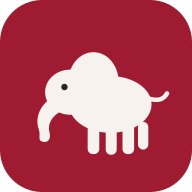
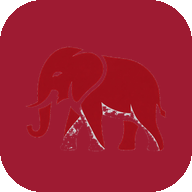
Wire Addison elephant PNGs into Crimson chrome
Use elephant-flat on the splash, elephant-white for the header and
1-face (no elephant emoji), and rebuild PWA icons from elephant-shaded
on a deep-crimson rounded square.

diff --git a/index.html b/index.html
@@ -271,7 +271,8 @@
     background:radial-gradient(900px 600px at 80% -10%, #c42b44 0%, transparent 55%),radial-gradient(700px 500px at 0% 110%, #2b2b2b 0%, transparent 55%),linear-gradient(160deg,var(--bg1),var(--bg2) 45%,var(--bg3));
   }
   html.skin-crimson .sp-title{background:linear-gradient(90deg,#fff,#f7d4d8 40%,#fff);-webkit-background-clip:text;background-clip:text}
-  html.skin-crimson .sp-ele{position:absolute;left:4vw;top:28vh;height:130vh;width:auto;
+  html.skin-crimson .sp-ele{position:absolute;left:2vw;top:22vh;height:70vh;width:auto;max-width:92vw;
+    object-fit:contain;
     filter:drop-shadow(0 0 60px rgba(255,255,255,.22));
     animation:spLob .7s ease-out both}
   html.skin-crimson .sp-lob{display:none}
@@ -281,6 +282,11 @@
   html.skin-crimson .btn{box-shadow:0 8px 20px rgba(158,27,50,.4)}
   html.skin-crimson .p.active{border-color:#fff;background:linear-gradient(90deg,rgba(255,255,255,.18),rgba(158,27,50,.12));box-shadow:0 0 0 1px rgba(255,255,255,.3)}
   html.skin-crimson .rc:active,html.skin-crimson .rc.on{background:linear-gradient(180deg,#fff,#f0e6e6);color:#6B1222;border-color:transparent}
+  html.skin-crimson .top .logo{width:36px;height:36px;padding:0;display:grid;place-items:center}
+  html.skin-crimson .top .logo img{width:36px;height:36px;object-fit:contain;display:block}
+  .ele-pip{width:1.2em;height:1.2em;vertical-align:-0.22em;object-fit:contain}
+  .nmcol .ele-pip{width:26px;height:26px;display:block;margin:0 auto}
+  .lobrow .ele-pip{width:18px;height:18px;margin:0 4px -3px 0}
 </style>
 </head>
 <body>
@@ -352,18 +358,7 @@
 <path style="fill:#A42615;" d="M33.3,39.78c0.92-0.05,3.8,0.42,3.73-1.55s-3.73-1.55-4.36-1.55c-0.63,0-2.75,0.35-2.75,1.76
 	S31.9,39.85,33.3,39.78z"/>
   </g></svg>
-  <svg class="sp-ele" viewBox="0 0 128 128" xmlns="http://www.w3.org/2000/svg"><g id="eleArt">
-    <ellipse cx="78" cy="62" rx="34" ry="24" fill="#d8d2cc"/>
-    <ellipse cx="42" cy="54" rx="20" ry="17" fill="#cfc8c2"/>
-    <ellipse cx="54" cy="48" rx="16" ry="20" fill="#b7b0aa"/>
-    <path d="M28 58c-12 8-16 22-12 32c2 6-2 10 5 11c5 1 6-4 5-8c-2-8 3-15 10-19c3-2 4-6 2-8c-2-3-6-6-10-8z" fill="#c4bdb6"/>
-    <rect x="58" y="78" width="9" height="26" rx="4" fill="#9e9892"/>
-    <rect x="70" y="80" width="8" height="24" rx="4" fill="#8f8984"/>
-    <rect x="82" y="78" width="9" height="26" rx="4" fill="#9e9892"/>
-    <rect x="94" y="76" width="8" height="24" rx="4" fill="#8f8984"/>
-    <path d="M108 54c8 2 12 0 15-6" fill="none" stroke="#c4bdb6" stroke-width="3.2" stroke-linecap="round"/>
-    <circle cx="36" cy="50" r="2.1" fill="#2a2422"/>
-  </g></svg>
+  <img class="sp-ele" id="eleArt" src="/crimson/elephant-flat.png" alt="">
   <div class="sp-title">Lobster<br>Dice</div>
   <div class="sp-dice sp-d1"><svg viewBox="0 0 64 64" xmlns="http://www.w3.org/2000/svg">
     <defs><linearGradient id="dieG" x1="0" y1="0" x2="1" y2="1"><stop offset="0" stop-color="#ffffff"/><stop offset="1" stop-color="#dde6f8"/></linearGradient></defs>
@@ -376,7 +371,7 @@
   </svg></div>
   <div class="sp-dice sp-d2 sp-d2-ele"><svg viewBox="0 0 64 64" xmlns="http://www.w3.org/2000/svg">
     <rect x="2" y="2" width="60" height="60" rx="14" fill="url(#dieG)"/>
-    <use href="#eleArt" transform="translate(8,10) scale(0.36)"/>
+    <image href="/crimson/elephant-flat.png" x="8" y="14" width="48" height="36" preserveAspectRatio="xMidYMid meet"/>
   </svg></div>
 </div>
 <div class="wrap">
@@ -435,7 +430,8 @@ function detectSkin(){
 const SKIN=detectSkin();
 window.SKIN=SKIN;
 window.parseKit=parseKit;
-function L(s){
+const ELE_WHITE='<img class="ele-pip" src="/crimson/elephant-white.png" alt="elephant">';
+function L(s, plain){
   if(s==null||SKIN.id!=='crimson') return s;
   return String(s)
     .replace(/Lobster Dice/g,'Crimson Dice')
@@ -450,8 +446,8 @@ function L(s){
     .replace(/A lobster/g,'An elephant')
     .replace(/lobster/g,'elephant')
     .replace(/Lobster/g,'Elephant')
-    .replace(/🦞🦞/g,'🐘🐘')
-    .replace(/🦞/g,'🐘');
+    .replace(/🦞🦞/g, plain ? '' : ELE_WHITE+ELE_WHITE)
+    .replace(/🦞/g, plain ? '' : ELE_WHITE);
 }
 function applySkinChrome(){
   if(SKIN.id!=='crimson') return;
@@ -462,7 +458,8 @@ function applySkinChrome(){
   const man=document.querySelector('link[rel="manifest"]'); if(man) man.setAttribute('href','/crimson/manifest.webmanifest');
   const icon=document.querySelector('link[rel="icon"]'); if(icon) icon.setAttribute('href','/crimson/icon-192.png');
   const apple=document.querySelector('link[rel="apple-touch-icon"]'); if(apple) apple.setAttribute('href','/crimson/icon-192.png');
-  const logo=document.querySelector('.top .logo'); if(logo) logo.textContent='🐘';
+  const logo=document.querySelector('.top .logo');
+  if(logo) logo.innerHTML='<img src="/crimson/elephant-white.png" alt="">';
   const h1=document.querySelector('.top h1'); if(h1) h1.textContent='Crimson Dice';
   const sp=document.querySelector('.sp-title'); if(sp) sp.innerHTML='Crimson<br>Dice';
 }
@@ -706,7 +703,7 @@ async function fetchWatch(){
   if(st&&st.phase==='playing') keepAwake(); else releaseAwake();   // watchers stay awake only while the game is live
   render();
 }
-function startWatch(){ foot.textContent=L('🦞 Claw Watch · '+WATCH); fetchWatch(); setInterval(fetchWatch,4000); }
+function startWatch(){ foot.textContent=L('🦞 Claw Watch · '+WATCH, true); fetchWatch(); setInterval(fetchWatch,4000); }
 function renderWatch(){
   const st=watchData&&watchData.state;
   const backBtn=`<button class="btn ghost sm" id="watchback" style="margin-top:4px">← Back to the app</button>`;
@@ -1309,7 +1306,7 @@ function renderModal(){
   const sa=document.getElementById('m_shareapp');
   if(sa) sa.onclick=async()=>{
     const url=location.origin+(SKIN.id==='crimson'?(SKIN.kit?'/crimson/'+SKIN.kit:'/crimson'):location.pathname);
-    const text=L('Lobster Dice 🦞🎲 — the scorepad + stakes tracker for our game. Open it, then tap Share → Add to Home Screen:');
+    const text=L('Lobster Dice 🦞🎲 — the scorepad + stakes tracker for our game. Open it, then tap Share → Add to Home Screen:', true);
     if(navigator.share){ try{ await navigator.share({title:L('Lobster Dice'),text,url}); }catch(e){} }
     else if(navigator.clipboard){ try{ await navigator.clipboard.writeText(url); alert('App link copied — text it to the table:\n'+url); }catch(e){ alert('App link:\n'+url); } }
     else alert('App link:\n'+url);

diff --git a/sw.js b/sw.js
@@ -1,5 +1,5 @@
 /* Lobster Dice / Crimson Dice service worker — offline app shell (cache-first) */
-const CACHE = 'lobster-dice-v9';
+const CACHE = 'lobster-dice-v10';
 const ASSETS = [
   './',
   './index.html',
@@ -10,7 +10,10 @@ const ASSETS = [
   './icon-192.png',
   './icon-512.png',
   './crimson/icon-192.png',
-  './crimson/icon-512.png'
+  './crimson/icon-512.png',
+  './crimson/elephant-flat.png',
+  './crimson/elephant-white.png',
+  './crimson/elephant-shaded.png'
 ];
 
 self.addEventListener('install', e => {
